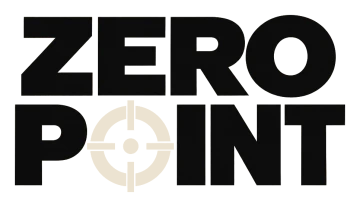
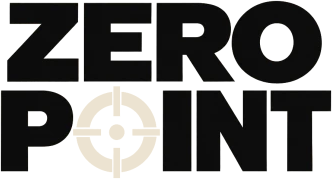
Share card: center the text in each band and line up the left edge

diff --git a/lib/share-card.tsx b/lib/share-card.tsx
@@ -18,6 +18,8 @@ type Card = {
 };
 
 const SEAM = 392;
+const LEFT = 64;
+const LOGO = { width: 160, height: 86 };
 const TAPE = "#e6d9b8";
 
 const asset = (file: string) => readFile(path.join(process.cwd(), "assets/og", file));
@@ -61,16 +63,16 @@ export async function shareCard({ eyebrow, lines, titleSize = 90, screens, tape 
       <div style={{ display: "flex", position: "relative", width: "100%", height: "100%", background: "#ece3d1", fontFamily: "Jakarta", overflow: "hidden" }}>
         <div style={{ display: "flex", position: "absolute", left: 0, right: 0, top: SEAM, bottom: 0, background: "#ff5a1f" }} />
 
-        <div style={{ display: "flex", flexDirection: "column", position: "absolute", left: 64, top: 44, width: 640 }}>
-          <div style={{ color: "#ad3a00", fontSize: 25, fontWeight: 800, letterSpacing: 4 }}>{eyebrow.toUpperCase()}</div>
-          <div style={{ display: "flex", flexDirection: "column", marginTop: 16, color: "#161614", fontSize: titleSize, fontWeight: 800, letterSpacing: -3.5, lineHeight: 1.06 }}>
+        <div style={{ display: "flex", flexDirection: "column", justifyContent: "center", position: "absolute", left: LEFT, top: 0, width: 620, height: SEAM }}>
+          <div style={{ color: "#ad3a00", fontSize: 23, fontWeight: 800, letterSpacing: 3.5 }}>{eyebrow.toUpperCase()}</div>
+          <div style={{ display: "flex", flexDirection: "column", marginTop: 18, color: "#161614", fontSize: titleSize, fontWeight: 800, letterSpacing: -3.5, lineHeight: 1.06 }}>
             <span>{lines[0]}</span>
             <span>{lines[1]}</span>
           </div>
         </div>
 
-        <div style={{ display: "flex", flexDirection: "column", position: "absolute", left: 64, top: SEAM + 44, color: "#161614" }}>
-          <img src={logo} width={170} height={98} />
+        <div style={{ display: "flex", flexDirection: "column", justifyContent: "center", position: "absolute", left: LEFT, top: SEAM, height: 630 - SEAM, color: "#161614" }}>
+          <img src={logo} width={LOGO.width} height={LOGO.height} />
           <div style={{ marginTop: 16, fontSize: 32, fontWeight: 800, letterSpacing: -0.5 }}>Free on iPhone and Android</div>
         </div>
 
